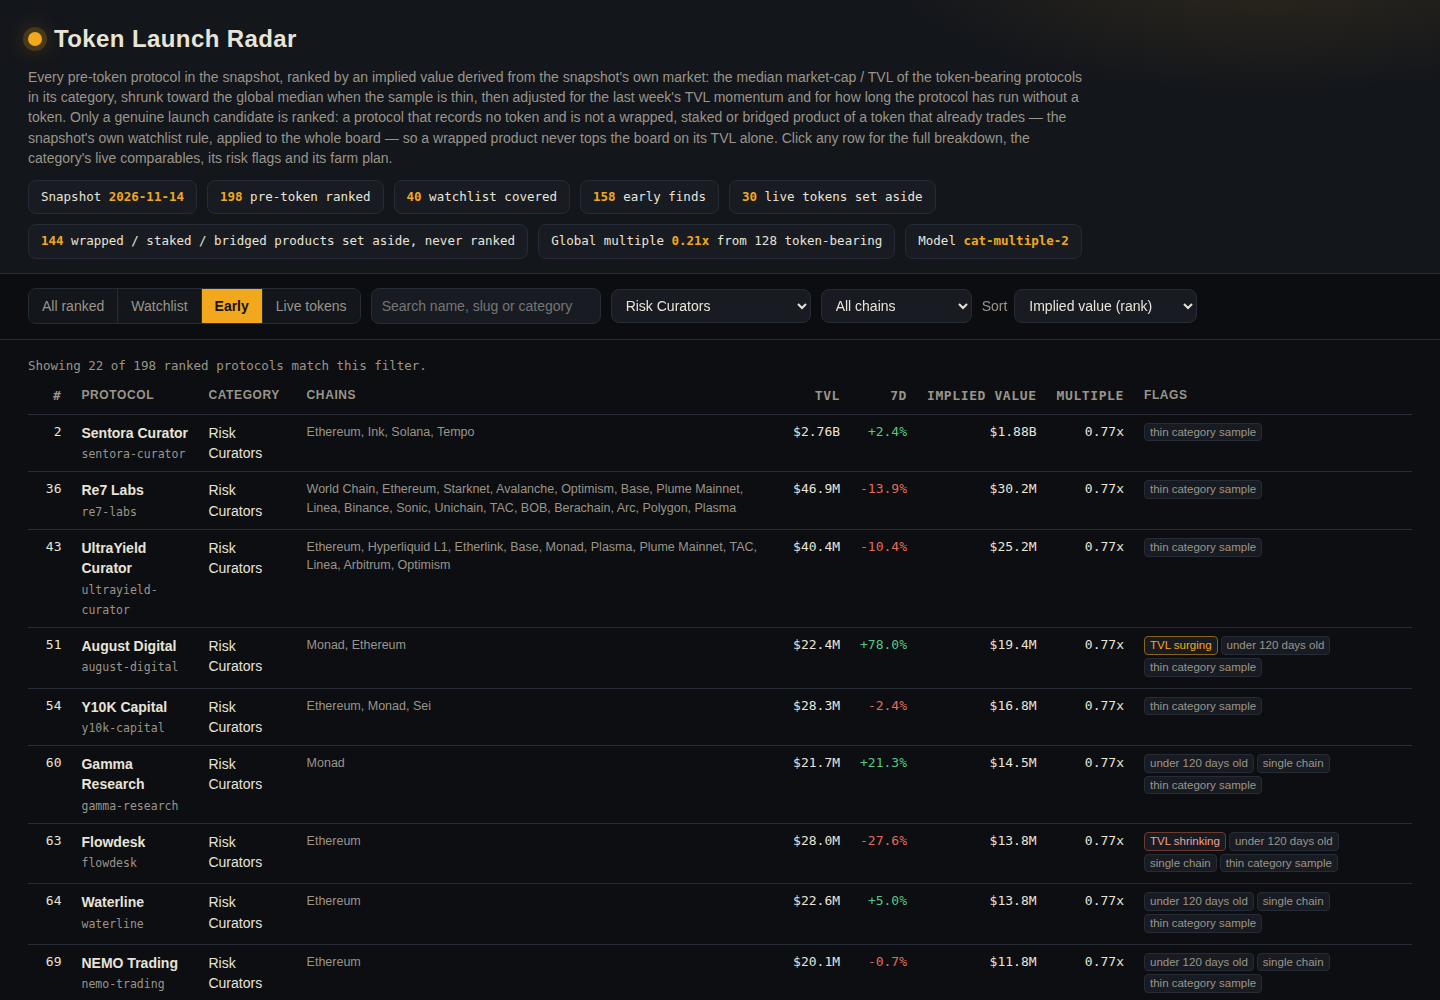
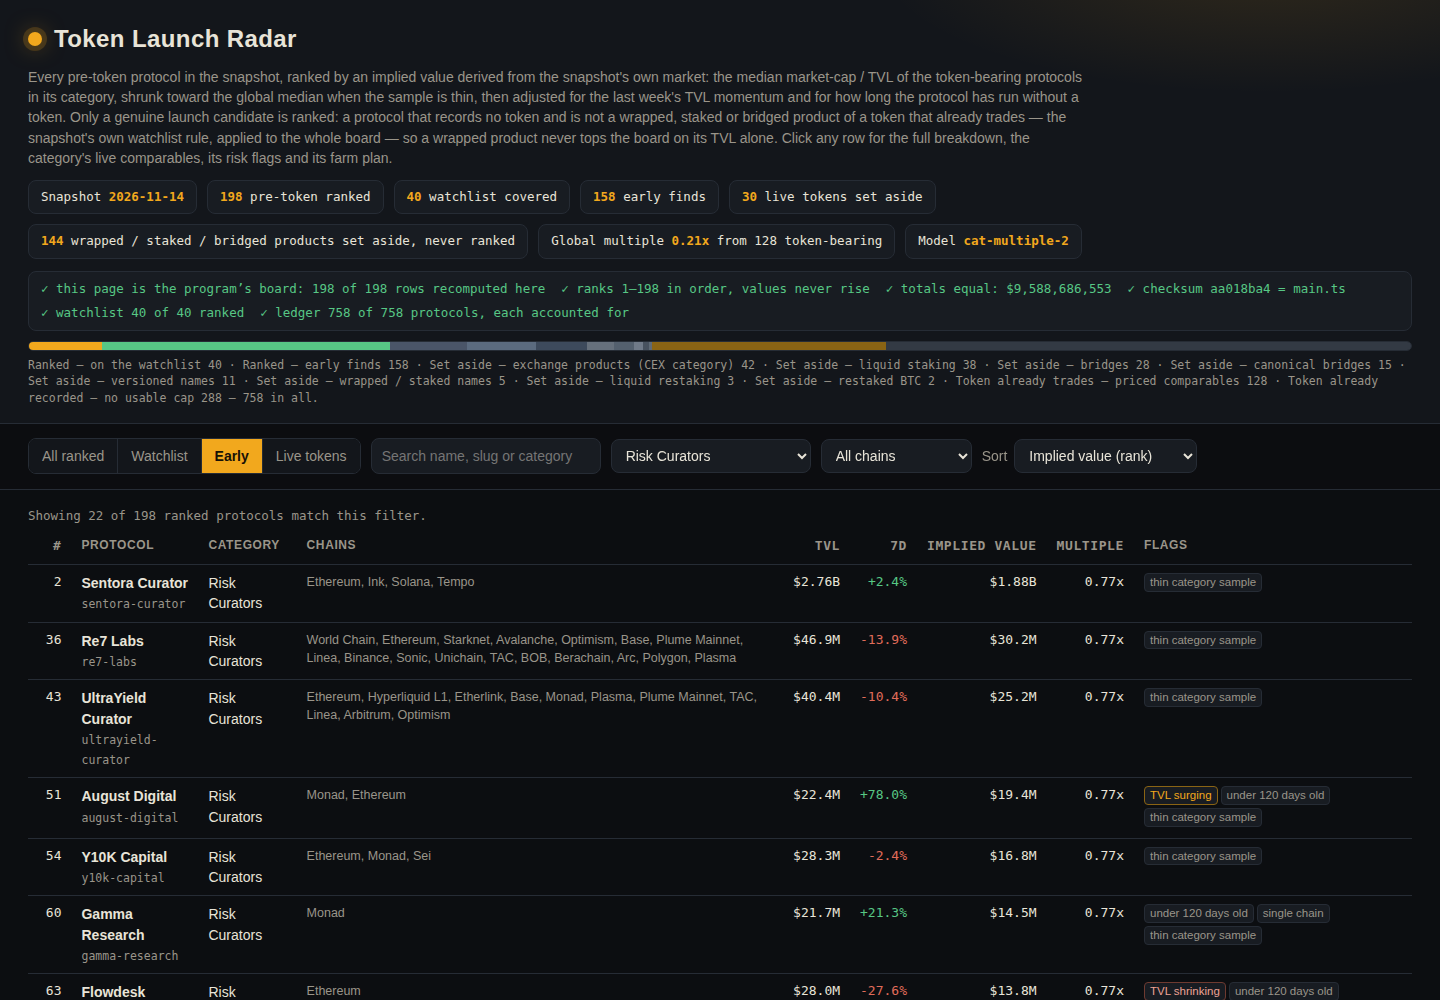
Token launch radar v6 (cut 1): cover self-check strip + full 758-protocol accounting
Presentation layer only: the value model (cat-multiple-2), every board
value, rank, momentum/maturity pricing and farm plan text are unchanged
(board.json byte-identical to v5). The page now recomputes its own cover
figures at render (rows, rank order, totals, FNV-1a checksum vs main.ts,
watchlist 40/40, ledger 758/758) and accounts for every protocol in the
snapshot: 198 ranked, 144 set aside by the watchlist rule with reasons,
128 priced comparables, 288 token-recorded without a usable cap.

diff --git a/lib/model.ts b/lib/model.ts
@@ -148,6 +148,14 @@ export interface LiveRow {
   ratio: number | null;
 }
 
+/** One destination in the full accounting of the snapshot's protocols. */
+export interface AccountingGroup {
+  key: string;
+  label: string;
+  count: number;
+  note: string;
+}
+
 /** Everything the dashboard renders, from the snapshot. */
 export interface RadarData {
   as_of: string;
@@ -164,6 +172,14 @@ export interface RadarData {
   /** Pre-token protocols set aside as wrapped/staked/bridged products, by the rule's reason. */
   set_aside_count: number;
   set_aside_reasons: { reason: string; count: number }[];
+  /** Every protocol in the snapshot, so the page can show the ledger closing. */
+  universe_size: number;
+  /** The board's implied values added up: the page re-adds them and compares. */
+  board_total_implied_usd: number;
+  /** A checksum over the board's rows: the page recomputes it from the rows it renders. */
+  board_checksum: string;
+  /** The full partition of the snapshot: every protocol, exactly one destination. */
+  accounting: AccountingGroup[];
   categories: CategoryMarket[];
   rows: RadarRow[];
   live: LiveRow[];
@@ -493,6 +509,126 @@ export function buildBoard(snapshot: Snapshot): {
   return { board, markets, global, sample, setAside };
 }
 
+/**
+ * A short checksum over the board itself: every row's slug, rank and implied value, in
+ * rank order, hashed with FNV-1a over the characters' codes. The dashboard recomputes
+ * the same sum from the rows it renders and prints both side by side on the cover, so a
+ * reader can see the page's figures are the program's figures — the string is ASCII
+ * (slugs, digits and separators), so the page's JavaScript and this file agree exactly.
+ */
+export function boardChecksum(board: BoardRow[]): string {
+  let h = 0x811c9dc5;
+  for (const r of board) {
+    const s = `${r.slug}#${r.rank}#${r.implied_value_usd};`;
+    for (let i = 0; i < s.length; i++) h = Math.imul(h ^ s.charCodeAt(i), 0x01000193) >>> 0;
+  }
+  return h.toString(16).padStart(8, '0');
+}
+
+/** How each set-aside reason reads on the page: the rule's own words, not the code's. */
+const SET_ASIDE_LABELS: Record<string, { label: string; note: string }> = {
+  'category-CEX': {
+    label: 'Set aside — exchange products (CEX category)',
+    note: 'Records no token, but it is an exchange\u2019s own product, not a launch candidate.',
+  },
+  'category-Liquid Staking': {
+    label: 'Set aside — liquid staking',
+    note: 'A liquid staking product of a token that already trades; its implied token already exists.',
+  },
+  'category-Bridge': {
+    label: 'Set aside — bridges',
+    note: 'A bridge product of a token that already trades; pricing it would price that token twice.',
+  },
+  'category-Canonical Bridge': {
+    label: 'Set aside — canonical bridges',
+    note: 'A canonical bridge product of a token that already trades.',
+  },
+  'category-Liquid Restaking': {
+    label: 'Set aside — liquid restaking',
+    note: 'A liquid restaking product of a token that already trades.',
+  },
+  'category-Restaked BTC': {
+    label: 'Set aside — restaked BTC',
+    note: 'A restaked-BTC product of a token that already trades.',
+  },
+  'versioned-name': {
+    label: 'Set aside — versioned names',
+    note: 'The name ends in a version marker (V2, 2.0 and the like): a pool of another protocol, not a launch.',
+  },
+  'wrapped-or-staked-name': {
+    label: 'Set aside — wrapped / staked names',
+    note: 'The name carries a whole word wrapped, staked or staking: a product of a token that already trades.',
+  },
+  'exchange-named': {
+    label: 'Set aside — exchange-named',
+    note: 'The name begins with an exchange\u2019s name: the exchange\u2019s own product.',
+  },
+};
+
+/**
+ * The full accounting of the snapshot: every protocol lands in exactly one group, so the
+ * groups add up to the snapshot's size and a reader can see where each of the protocols
+ * went — ranked on the board (watchlist or early), set aside by the watchlist rule with
+ * its reason, or already carrying a token (one of the priced comparables behind the
+ * multiples, or recorded without a usable market-cap / TVL pair). Counted here, from the
+ * snapshot and the finished board; the dashboard prints the groups and re-adds them.
+ */
+export function protocolAccounting(snapshot: Snapshot, board: BoardRow[]): AccountingGroup[] {
+  const onBoard = new Map(board.map((r) => [r.slug, r.watchlist]));
+  let watch = 0;
+  let early = 0;
+  let priced = 0;
+  let unpriced = 0;
+  const aside = new Map<string, number>();
+  for (const p of snapshot.protocols) {
+    const w = onBoard.get(p.slug);
+    if (w !== undefined) {
+      if (w) watch++;
+      else early++;
+      continue;
+    }
+    if (isPreToken(p)) {
+      const reason = eligibilityReason(p) ?? 'not-ranked';
+      aside.set(reason, (aside.get(reason) ?? 0) + 1);
+    } else if (p.mcap_usd !== null && p.mcap_usd > 0 && p.tvl_usd > 0) priced++;
+    else unpriced++;
+  }
+  const groups: AccountingGroup[] = [
+    {
+      key: 'ranked-watchlist',
+      label: 'Ranked — on the watchlist',
+      count: watch,
+      note: 'Pre-token and at or above the snapshot\u2019s floor: the watchlist the board must cover, and does.',
+    },
+    {
+      key: 'ranked-early',
+      label: 'Ranked — early finds',
+      count: early,
+      note: 'Pre-token launch candidates below the floor or off the list: the finds the radar exists to surface.',
+    },
+  ];
+  for (const [reason, count] of [...aside.entries()].sort((a, b) => b[1] - a[1] || (a[0] < b[0] ? -1 : 1))) {
+    const meta = SET_ASIDE_LABELS[reason] ?? {
+      label: `Set aside — ${reason}`,
+      note: 'Records no token, but the watchlist rule sets it aside, so it is never ranked.',
+    };
+    groups.push({ key: `aside-${reason}`, label: meta.label, count, note: meta.note });
+  }
+  groups.push({
+    key: 'token-priced',
+    label: 'Token already trades — priced comparables',
+    count: priced,
+    note: 'A token is recorded with a usable market cap and TVL: one of the comparables the category multiples are built from.',
+  });
+  groups.push({
+    key: 'token-unpriced',
+    label: 'Token already recorded — no usable cap',
+    count: unpriced,
+    note: 'A token is recorded, but with no usable market-cap / TVL pair, so it cannot price a category; kept off the board.',
+  });
+  return groups;
+}
+
 /** The live-token protocols, by market cap: shown at market value, kept off the ranked board. */
 export function liveRows(snapshot: Snapshot): LiveRow[] {
   return snapshot.protocols
@@ -539,6 +675,10 @@ export function buildRadar(snapshot: Snapshot): { board: BoardRow[]; radar: Rada
     live_size: live.length,
     set_aside_count: setAsideCount,
     set_aside_reasons: setAside,
+    universe_size: snapshot.protocols.length,
+    board_total_implied_usd: board.reduce((n, r) => n + r.implied_value_usd, 0),
+    board_checksum: boardChecksum(board),
+    accounting: protocolAccounting(snapshot, board),
     categories: markets,
     rows: board.map((r) => ({ ...r, segment: r.watchlist ? ('watchlist' as const) : ('early' as const) })),
     live,

diff --git a/dashboard/app.js b/dashboard/app.js
@@ -75,6 +75,68 @@
     '<span class="stat">Model <b>' + esc(D.model_version) + '</b></span>';
   $('modelSummary').textContent = D.model_summary;
 
+  // ---------- cover self-check + protocol accounting ----------
+  // Every figure in the strip is recomputed here, from the rows this page renders:
+  // nothing in it is a typed-in claim. The checksum is FNV-1a over each row's slug,
+  // rank and implied value — the same sum lib/model.ts stores as board_checksum — so
+  // the strip agrees with main.ts only if the page's rows are the program's rows,
+  // untouched. A check that fails shows its computed figure with a cross, not a tick.
+  function commas(n) {
+    return String(n).replace(/\B(?=(\d{3})+(?!\d))/g, ',');
+  }
+  function pageChecksum(rows) {
+    var h = 0x811c9dc5;
+    for (var i = 0; i < rows.length; i++) {
+      var s = rows[i].slug + '#' + rows[i].rank + '#' + rows[i].implied_value_usd + ';';
+      for (var j = 0; j < s.length; j++) h = Math.imul(h ^ s.charCodeAt(j), 0x01000193) >>> 0;
+    }
+    return ('0000000' + h.toString(16)).slice(-8);
+  }
+  (function () {
+    var rows = D.rows;
+    var ranksOk = rows.length === D.board_size;
+    var monoOk = true;
+    var total = 0;
+    var watch = 0;
+    for (var i = 0; i < rows.length; i++) {
+      if (rows[i].rank !== i + 1) ranksOk = false;
+      if (i > 0 && rows[i].implied_value_usd > rows[i - 1].implied_value_usd) monoOk = false;
+      total += rows[i].implied_value_usd;
+      if (rows[i].watchlist) watch++;
+    }
+    var sum = pageChecksum(rows);
+    var ledgerTotal = 0;
+    var rankedTotal = 0;
+    D.accounting.forEach(function (g) {
+      ledgerTotal += g.count;
+      if (g.key.indexOf('ranked-') === 0) rankedTotal += g.count;
+    });
+    function item(ok, text) {
+      return '<span class="sc ' + (ok ? 'ok' : 'bad') + '">' + (ok ? '\u2713 ' : '\u2717 ') + esc(text) + '</span>';
+    }
+    $('selfcheck').innerHTML =
+      item(rows.length === D.board_size, 'this page is the program\u2019s board: ' + rows.length + ' of ' + D.board_size + ' rows recomputed here') +
+      item(ranksOk && monoOk, 'ranks 1\u2013' + rows.length + ' in order, values never rise') +
+      item(total === D.board_total_implied_usd, 'totals equal: $' + commas(total)) +
+      item(sum === D.board_checksum, 'checksum ' + sum + ' = main.ts') +
+      item(watch === D.watchlist_size, 'watchlist ' + watch + ' of ' + D.watchlist_size + ' ranked') +
+      item(ledgerTotal === D.universe_size && rankedTotal === D.board_size, 'ledger ' + ledgerTotal + ' of ' + D.universe_size + ' protocols, each accounted for');
+    var COLORS = { 'ranked-watchlist': '#f2a81d', 'ranked-early': '#57c785', 'token-priced': '#8a6414', 'token-unpriced': '#333a44' };
+    var ASIDE = ['#4a5568', '#5b6b7f', '#3d4a5c', '#66707c', '#54606e', '#707a88', '#48525f', '#5f6a76'];
+    var ai = 0;
+    $('ledgerbar').innerHTML = D.accounting.map(function (g) {
+      var c = COLORS[g.key] || ASIDE[ai++ % ASIDE.length];
+      var w = (g.count / D.universe_size * 100).toFixed(2);
+      return '<span class="segbar" style="width:' + w + '%;background:' + c + '" title="' + esc(g.label) + ': ' + g.count + '"></span>';
+    }).join('');
+    $('ledgerlegend').textContent = D.accounting.map(function (g) { return g.label + ' ' + g.count; }).join(' \u00b7 ') + ' \u2014 ' + D.universe_size + ' in all.';
+    $('ledgerTotal').textContent = D.universe_size;
+    $('ledgerRows').innerHTML = D.accounting.map(function (g) {
+      return '<tr><td>' + esc(g.label) + '</td><td class="num">' + g.count + '</td><td class="chains">' + esc(g.note) + '</td></tr>';
+    }).join('') + '<tr class="totalrow"><td>All protocols in the snapshot</td><td class="num">' + ledgerTotal +
+      '</td><td class="chains">Counted by the program from the snapshot; the cover strip re-adds the groups on this page.</td></tr>';
+  })();
+
   // ---------- filters ----------
   var cats = D.categories.map(function (c) { return c.category; });
   $('cat').innerHTML = '<option value="">All categories</option>' + cats.map(function (c) {

diff --git a/dashboard/index.html b/dashboard/index.html
@@ -18,6 +18,11 @@
   so a wrapped product never tops the board on its TVL alone. Click any row for the full
   breakdown, the category's live comparables, its risk flags and its farm plan.</p>
   <div id="stats" class="stats"></div>
+  <div id="selfcheck" class="selfcheck" aria-label="Cover self-check"></div>
+  <div class="ledgerwrap" aria-label="Protocol accounting summary">
+    <div id="ledgerbar" class="ledgerbar"></div>
+    <p id="ledgerlegend" class="ledgerlegend"></p>
+  </div>
 </header>
 
 <nav class="controls" aria-label="Board controls">
@@ -63,6 +68,20 @@
       <thead><tr><th>Protocol</th><th>Category</th><th class="num">Market cap</th>
       <th class="num">TVL</th><th class="num">Mcap / TVL</th><th class="num">7d</th></tr></thead>
       <tbody id="liveRows"></tbody>
+    </table>
+  </section>
+
+  <section id="ledger">
+    <h2>Every protocol accounted for</h2>
+    <p class="note">The snapshot holds <b id="ledgerTotal"></b> protocols, and each one has exactly one
+    destination: ranked on this board, set aside by the snapshot's own watchlist rule with the reason
+    stated, or already carrying a token — as one of the priced comparables the multiples are built
+    from, or recorded without a usable market cap. The program counts the groups from the snapshot
+    itself; the strip on the cover re-adds them on this page, so the ledger can be checked where it
+    is read.</p>
+    <table id="ledgerTable">
+      <thead><tr><th>Destination</th><th class="num">Protocols</th><th>Why</th></tr></thead>
+      <tbody id="ledgerRows"></tbody>
     </table>
   </section>
 

diff --git a/dashboard/app.css b/dashboard/app.css
@@ -91,7 +91,24 @@ tbody tr:hover { background: rgba(242, 168, 29, 0.06); }
 .empty { color: var(--dim); padding: 22px 4px; }
 
 .model { margin-top: 30px; }
-.model h2, #liveWrap h2 { font-size: 16px; margin: 0 0 8px; }
+.model h2, #liveWrap h2, #ledger h2 { font-size: 16px; margin: 0 0 8px; }
+#ledger { margin-top: 30px; }
+#ledger .totalrow td { border-top: 1px solid var(--amber-dim); font-weight: 600; }
+
+.selfcheck {
+  display: flex; flex-wrap: wrap; gap: 6px 16px; margin-top: 12px;
+  background: var(--panel2); border: 1px solid var(--line); border-radius: 8px;
+  padding: 8px 12px; font-family: var(--mono); font-size: 12.5px;
+}
+.selfcheck .sc.ok { color: var(--green); }
+.selfcheck .sc.bad { color: var(--red); font-weight: 600; }
+.ledgerwrap { margin-top: 10px; }
+.ledgerbar {
+  display: flex; height: 10px; border-radius: 5px; overflow: hidden;
+  border: 1px solid var(--line); background: var(--panel2);
+}
+.ledgerbar .segbar { display: block; height: 100%; }
+.ledgerlegend { color: var(--dim); font-family: var(--mono); font-size: 11.5px; margin: 6px 0 2px; }
 .note { color: var(--dim); max-width: 1060px; }
 #liveWrap { margin-top: 26px; }
 

diff --git a/README.md b/README.md
@@ -4,7 +4,7 @@
 [![rank](https://make.fun/badge/token-radar-01/zuoyilove/token-radar/rank.svg)](https://make.fun/bounty/token-radar-01/leaderboard?utm_source=github&utm_medium=readme&utm_campaign=token-radar-01)
 [![reward](https://make.fun/badge/token-radar-01/zuoyilove/token-radar/reward.svg)](https://make.fun/bounty/token-radar-01?utm_source=github&utm_medium=readme&utm_campaign=token-radar-01)
 
-A token launch radar over the sealed DefiLlama snapshot: all 198 rankable pre-token protocols, every watchlist slug covered, each priced by an implied value derived from the snapshot's own market instead of one flat multiple. The model takes the median market-cap/TVL of the token-bearing protocols in each category (lending ≈0.13x, DEXs ≈0.34x, cross-chain bridges ≈1.22x; ratios winsorized at 10x), shrinks it toward the global median by sample size, then adjusts for 7-day TVL momentum (clamped −50%/+80%) and for how long the protocol has run without a token. Every board row carries its full audit trail — the multiple used, the sample behind it, both adjustments — plus screening risk flags (shrinking or surging TVL, under 120 days old, single chain, thin category sample, unreported figures) and a six-step farm plan with chain-aware gas costs, a TVL-tiered capital size, an age-based hold window and exit discipline. The dashboard is a static offline page: sortable, filterable by segment, category, chain and search, with a per-protocol detail drawer that works the implied value step by step from the snapshot's own numbers, shows how the category multiple was built from its live comparables, and totals the farm plan's cost and time before the steps. Live-token protocols are kept off the ranked board and shown at the market's own values.
+A token launch radar over the sealed DefiLlama snapshot: all 198 rankable pre-token protocols, every watchlist slug covered, each priced by an implied value derived from the snapshot's own market instead of one flat multiple. The model takes the median market-cap/TVL of the token-bearing protocols in each category (lending ≈0.13x, DEXs ≈0.34x, cross-chain bridges ≈1.22x; ratios winsorized at 10x), shrinks it toward the global median by sample size, then adjusts for 7-day TVL momentum (clamped −50%/+80%) and for how long the protocol has run without a token. Every board row carries its full audit trail — the multiple used, the sample behind it, both adjustments — plus screening risk flags (shrinking or surging TVL, under 120 days old, single chain, thin category sample, unreported figures) and a six-step farm plan with chain-aware gas costs, a TVL-tiered capital size, an age-based hold window and exit discipline. The dashboard is a static offline page: sortable, filterable by segment, category, chain and search, with a per-protocol detail drawer that works the implied value step by step from the snapshot's own numbers, shows how the category multiple was built from its live comparables, and totals the farm plan's cost and time before the steps. Live-token protocols are kept off the ranked board and shown at the market's own values. The cover carries a self-check strip the page recomputes from the rows it renders — row count, rank order, the board's total implied value, a checksum that must match the one main.ts prints into the data, watchlist coverage, and the ledger total — and a full accounting of all 758 protocols in the snapshot: ranked on the board, set aside by the watchlist rule with each reason counted, or already carrying a token, so every protocol has a stated destination.
 
 ## Run it
 
